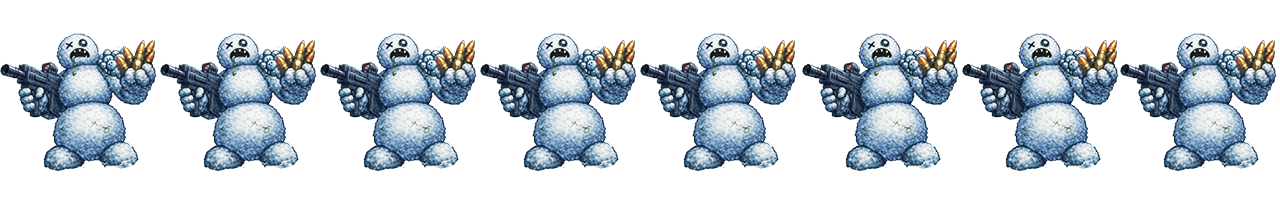
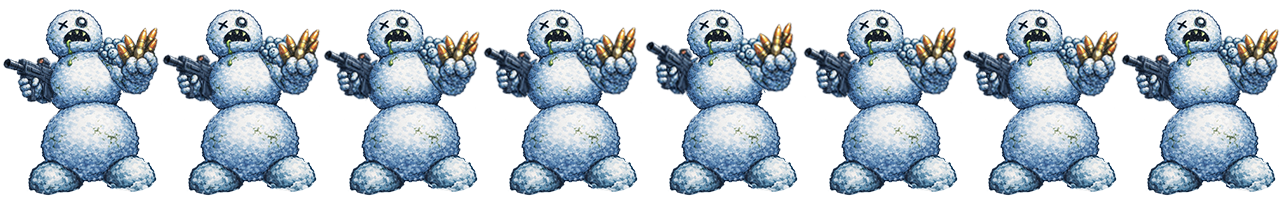
boss 수정

diff --git a/src/components/map/ZoombieGame.tsx b/src/components/map/ZoombieGame.tsx
@@ -66,9 +66,9 @@ const HEALER_BOSS_MAX_ALIVE = 2; // 보스전 힐러 최대 동시 존재
 // ===== Stage20 Boss Missile Patterns =====
 const BOSS20_Y = 0.14; // 상단 고정 y
 const BOSS20_ENTRY_SPEED = 0.28;
-const BOSS20_FIRE_INTERVAL = 0.14; // 패턴 내부 틱
-const BOSS20_PATTERN_DUR = 4.8; // 패턴 1개 지속 시간(초)
-const BOSS20_SHOT_SPEED = 0.18;
+const BOSS20_FIRE_INTERVAL = 0.42; // 전체 발사 템포 느리게
+const BOSS20_PATTERN_DUR = 3.8; // 패턴 교체는 조금 빠르게
+const BOSS20_SHOT_SPEED = 0.16; // 너무 빠르지 않게
 
 const BOSS10_STOP_Y = 0.22;
 const BOSS20_STOP_Y = 0.14; // 너가 쓰던 BOSS20_Y랑 동일하게 써도 됨
@@ -77,7 +77,7 @@ const BOSS30_STOP_Y = 0.2;
 const getBossStopY = (stage: number) =>
   stage === 10 ? BOSS10_STOP_Y : stage === 20 ? BOSS20_STOP_Y : BOSS30_STOP_Y;
 
-const BOSS20_ORDER: ShotStyle[] = ["spray", "spiral", "big", "spray"]; // ✅ “규칙적으로”
+const BOSS20_ORDER: ShotStyle[] = ["aimBurst", "laneGap", "sniper"];
 
 // ==============================
 // ✅ STAGE 1~30 CONFIG (edit here)
@@ -449,7 +449,7 @@ const BOSS_MISSIONS: BossMission[] = [
   {
     stage: 20,
     kind: "queen",
-    hp: 3200,
+    hp: 4200,
     speedMul: 0.58,
     damage: 6,
     widthUnits: 4.4,
@@ -629,7 +629,7 @@ type BossState = {
   mission: BossMission;
 };
 
-type ShotStyle = "spray" | "spiral" | "big";
+type ShotStyle = "throw" | "aimBurst" | "laneGap" | "sniper";
 
 // ✅ 적 투사체(눈 던지기)
 type EnemyShot = {
@@ -938,7 +938,7 @@ const ZoombieGame: React.FC<Props> = ({ onExit }) => {
   };
 
   const [world, setWorld] = useState<World>(() => ({
-    stage: 20,
+    stage: 1,
     totalScore: 0,
     stageScore: 0,
     mode: "playing",
@@ -1155,6 +1155,11 @@ const ZoombieGame: React.FC<Props> = ({ onExit }) => {
     setWorld((prev) => {
       // ✅ 보스전: healer만 계속
       if (prev.boss?.active) {
+        const bossStage = prev.boss.mission.stage;
+        const allowHealer = bossStage !== 10; // ✅ stage10에서는 힐러 금지
+
+        if (!allowHealer) return prev;
+
         const healerAlive = prev.enemies.filter(
           (e) => e.kind === "healer"
         ).length;
@@ -1447,7 +1452,7 @@ const ZoombieGame: React.FC<Props> = ({ onExit }) => {
               vy: uy * SNOW_SHOT_SPEED,
               radius: SNOW_SHOT_RADIUS,
               damage: SNOW_SHOT_DAMAGE,
-              style: "spray",
+              style: "throw",
             });
           }
 
@@ -1512,12 +1517,26 @@ const ZoombieGame: React.FC<Props> = ({ onExit }) => {
                 const tx = playerRef.current.x;
                 const ty = PLAYER_Y;
 
-                if (style === "spray") {
-                  const N = 11;
-                  const spread = 0.95;
+                if (style === "aimBurst") {
+                  // ✅ 조준 3점사 (총게임 느낌)
+                  const N: number = 3;
+                  const spread = 0.22; // 살짝 퍼지게
+                  const dx = tx - e.x;
+                  const dy = ty - ny;
+                  const len = Math.max(0.0001, Math.hypot(dx, dy));
+                  const ux = dx / len;
+                  const uy = dy / len;
+
+                  // 직각 벡터(퍼짐용)
+                  const px = -uy;
+                  const py = ux;
+
                   for (let i = 0; i < N; i++) {
-                    const t = i / (N - 1);
-                    const ax = (t - 0.5) * spread;
+                    const t = N === 1 ? 0 : i / (N - 1);
+                    const off = (t - 0.5) * spread;
+
+                    const vx = (ux + px * off) * BOSS20_SHOT_SPEED;
+                    const vy = (uy + py * off) * BOSS20_SHOT_SPEED;
 
                     spawnedBossShots.push({
                       id: enemyShotIdSeed++,
@@ -1525,34 +1544,45 @@ const ZoombieGame: React.FC<Props> = ({ onExit }) => {
                       y: ny,
                       px: e.x,
                       py: ny,
-                      vx: ax * BOSS20_SHOT_SPEED,
-                      vy: 1.0 * BOSS20_SHOT_SPEED,
+                      vx,
+                      vy,
                       radius: 0.055,
                       damage: 1,
-                      style: "spray",
+                      style: "aimBurst",
                     });
                   }
                 }
 
-                if (style === "spiral") {
-                  spiralA += 0.42;
-                  spawnedBossShots.push({
-                    id: enemyShotIdSeed++,
-                    x: e.x,
-                    y: ny,
-                    px: e.x,
-                    py: ny,
-                    vx: Math.cos(spiralA) * (BOSS20_SHOT_SPEED * 0.95),
-                    vy:
-                      (0.9 + Math.abs(Math.sin(spiralA)) * 0.6) *
-                      (BOSS20_SHOT_SPEED * 0.85),
-                    radius: 0.05,
-                    damage: 1,
-                    style: "spiral",
-                  });
+                if (style === "laneGap") {
+                  // ✅ 내려오는 벽탄 + 빈틈 1 lane (회피 재미 확 좋아짐)
+                  // lane 단위로 '안전 lane'을 이동시키자
+                  const t = e.bossPatternT ?? 0; // 0~PATTERN_DUR
+                  const safeLane = Math.floor(
+                    (Math.sin(t * 1.2) + 1) * 0.5 * (LANE_COUNT - 1)
+                  );
+                  // safeLane은 0~LANE_COUNT-1
+
+                  for (let lane = 0; lane < LANE_COUNT; lane++) {
+                    if (lane === safeLane) continue; // ✅ 여기만 통로
+
+                    const xLane = lane + 0.5; // lane 중앙
+                    spawnedBossShots.push({
+                      id: enemyShotIdSeed++,
+                      x: xLane,
+                      y: ny,
+                      px: xLane,
+                      py: ny,
+                      vx: 0,
+                      vy: 1.0 * (BOSS20_SHOT_SPEED * 0.95),
+                      radius: 0.06,
+                      damage: 1,
+                      style: "laneGap",
+                    });
+                  }
                 }
 
-                if (style === "big") {
+                if (style === "sniper") {
+                  // ✅ 저속 대탄 1발 (유도 회피)
                   const dx = tx - e.x;
                   const dy = ty - ny;
                   const len = Math.max(0.0001, Math.hypot(dx, dy));
@@ -1565,11 +1595,11 @@ const ZoombieGame: React.FC<Props> = ({ onExit }) => {
                     y: ny,
                     px: e.x,
                     py: ny,
-                    vx: ux * (BOSS20_SHOT_SPEED * 0.65),
-                    vy: uy * (BOSS20_SHOT_SPEED * 0.65),
-                    radius: 0.12,
+                    vx: ux * (BOSS20_SHOT_SPEED * 0.72),
+                    vy: uy * (BOSS20_SHOT_SPEED * 0.72),
+                    radius: 0.12, // 큼직
                     damage: 2,
-                    style: "big",
+                    style: "sniper",
                   });
                 }
               }
@@ -2175,10 +2205,13 @@ const ZoombieGame: React.FC<Props> = ({ onExit }) => {
             top: ypx,
             transform: `translate(-50%, -50%) scale(${scale})`,
             width: laneWidth * e.widthUnits,
-            height: 140, // ✅ 보스 전용 크기
+            height: 300, // ✅ 보스 전용 크기
             zIndex: 90,
             pointerEvents: "none",
             filter: "drop-shadow(0 28px 36px rgba(0,0,0,0.45))",
+            display: "flex",
+            alignItems: "center",
+            justifyContent: "center",
           }}
         >
           {/* 바닥 그림자 */}
@@ -2227,6 +2260,47 @@ const ZoombieGame: React.FC<Props> = ({ onExit }) => {
               }}
             />
           </div>
+
+          {/* 바닥 그림자 */}
+          <div
+            style={{
+              position: "absolute",
+              left: "50%",
+              bottom: 0,
+              transform: "translateX(-50%)",
+              width: laneWidth * 0.78 * e.widthUnits,
+              height: 10,
+              borderRadius: "50%",
+              background:
+                "radial-gradient(ellipse at center, rgba(0,0,0,0.35) 0%, rgba(0,0,0,0.15) 40%, rgba(0,0,0,0.0) 70%)",
+              filter: "blur(2px)",
+            }}
+          />
+
+          {e.hitFx > 0 && (
+            <div
+              style={{
+                position: "absolute",
+                top: 0,
+                right: "0%",
+                fontSize: 12,
+                rotate: "40deg",
+                fontWeight: 1000,
+                padding: "2px 6px",
+                borderRadius: 8,
+                background: "rgba(0,0,0,0.55)",
+                color: "#fff",
+                opacity: Math.min(1, e.hitFx / 0.18),
+                pointerEvents: "none",
+                whiteSpace: "nowrap",
+                zIndex: 20,
+              }}
+            >
+              {e.hitText}
+            </div>
+          )}
+
+          <div className={ENEMY_SPECS[e.kind].cssClass} />
         </div>
       );
     }
@@ -2457,16 +2531,23 @@ const ZoombieGame: React.FC<Props> = ({ onExit }) => {
     const baseX = xUnitsToPx(s.x);
     const x = centerX + (baseX - centerX) * spread;
 
-    const size = 22;
+    const baseSize =
+      s.style === "sniper"
+        ? 52
+        : s.style === "laneGap"
+        ? 26
+        : s.style === "aimBurst"
+        ? 20
+        : 22; // throw 기본
 
-    const baseSize = s.style === "big" ? 52 : s.style === "spray" ? 22 : 20;
+    const size = baseSize;
 
-    const glow =
-      s.style === "big"
-        ? "0 0 24px rgba(99, 255, 180, 0.45)"
-        : s.style === "spiral"
-        ? "0 0 18px rgba(96, 165, 250, 0.55)"
-        : "0 0 12px rgba(255,255,255,0.25)";
+    // const glow =
+    //   s.style === "big"
+    //     ? "0 0 24px rgba(99, 255, 180, 0.45)"
+    //     : s.style === "spiral"
+    //     ? "0 0 18px rgba(96, 165, 250, 0.55)"
+    //     : "0 0 12px rgba(255,255,255,0.25)";
 
     return (
       <div
@@ -2476,8 +2557,8 @@ const ZoombieGame: React.FC<Props> = ({ onExit }) => {
           left: x,
           top: ypx,
           transform: `translate(-50%, -50%) scale(${scale})`,
-          width: size,
-          height: size,
+          width: baseSize,
+          height: baseSize,
           pointerEvents: "none",
         }}
       >

diff --git a/src/index.css b/src/index.css
@@ -71,16 +71,16 @@ code {
 }
 
 .charactor_zoombie4 {
-  width: 64px; /* 프레임 하나의 실제 너비 */
-  height: 80px; /* 프레임 하나의 실제 높이 */
+  width: 160px; /* 프레임 하나의 실제 너비 */
+  height: 200px; /* 프레임 하나의 실제 높이 */
   background-image: url("/public/charactor/charactor_boss1.png"); /* 너가 받은 스프라이트 */
   background-repeat: no-repeat;
 
   /* 전체 스프라이트 시트의 가로 길이 = 프레임 8개 */
-  background-size: 512px 80px; /* (100px * 8프레임) */
+  background-size: 1280px 200px; /* (100px * 8프레임) */
 
-  animation: eightpx-walk 0.8s steps(8) infinite;
-  scale: 2.6;
+  animation: eightpx-boss-walk 0.8s steps(8) infinite;
+  scale: 2;
   /* transition: 3.32s ease-in-out; */
 }
 
